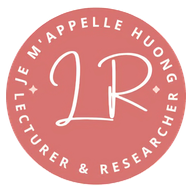
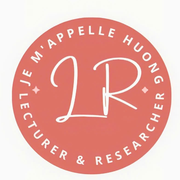
brand: apply user-provided official LR identity

diff --git a/blog.html b/blog.html
@@ -27,7 +27,7 @@ html{scroll-behavior:smooth}
 h1,h2,h3{font-family:var(--serif);font-weight:600;text-wrap:balance;margin:0}
 a{color:var(--accent)}
 .eyebrow{text-transform:uppercase;letter-spacing:.16em;font-size:.7rem;font-weight:700;color:var(--accent)}
-.brandmini{position:fixed;top:10px;left:12px;z-index:6;display:block;width:min(315px,calc(100vw - 190px));height:auto;text-decoration:none;line-height:0}
+.brandmini{position:fixed;top:10px;left:12px;z-index:6;display:block;width:min(230px,calc(100vw - 190px));height:auto;text-decoration:none;line-height:0}
 .brandmini img{display:block;width:100%;height:auto;object-fit:contain}
 @media(max-width:560px){.brandmini{top:9px;left:9px;width:160px}}
 .topctl{position:fixed;top:14px;right:14px;display:flex;gap:8px;z-index:6}
@@ -74,7 +74,7 @@ footer a{color:var(--muted)}
 footer a:hover{color:var(--accent)}
 </style>
 </head><body>
-<a class="brandmini" href="./" aria-label="Je m'appelle Hương · Lecturer &amp; Researcher" title="Je m'appelle Hương · Lecturer &amp; Researcher"><img src="assets/img/lr-je-mappelle-huong.webp" alt="Logo LR — Je m'appelle Hương, Lecturer &amp; Researcher"></a>
+<a class="brandmini" href="./" aria-label="Je m'appelle Hương · Lecturer &amp; Researcher" title="Je m'appelle Hương · Lecturer &amp; Researcher"><img src="assets/img/lr-je-mappelle-huong.png" alt="Logo LR — Je m'appelle Hương, Lecturer &amp; Researcher"></a>
 <div class="topctl"><span class="langtog"><button type="button" data-lang="vi" class="active">VI</button><button type="button" data-lang="en">EN</button></span><button class="toggle" id="tg"><span class="lang-vi">◐ Sáng / Tối</span><span class="lang-en">◐ Light / Dark</span></button></div>
 
 <div class="wrap">

diff --git a/music.html b/music.html
@@ -22,7 +22,7 @@ html{scroll-behavior:smooth}
 h1,h2,h3{font-family:var(--serif);font-weight:600;text-wrap:balance;margin:0}
 a{color:var(--accent)}
 .eyebrow{text-transform:uppercase;letter-spacing:.16em;font-size:.7rem;font-weight:700;color:var(--accent)}
-.brandmini{position:fixed;top:10px;left:12px;z-index:6;display:block;width:min(315px,calc(100vw - 190px));height:auto;text-decoration:none;line-height:0}
+.brandmini{position:fixed;top:10px;left:12px;z-index:6;display:block;width:min(230px,calc(100vw - 190px));height:auto;text-decoration:none;line-height:0}
 .brandmini img{display:block;width:100%;height:auto;object-fit:contain}
 @media(max-width:560px){.brandmini{top:9px;left:9px;width:160px}}
 .topctl{position:fixed;top:14px;right:14px;display:flex;gap:8px;z-index:6}
@@ -76,7 +76,7 @@ footer a{color:var(--muted)}
 footer a:hover{color:var(--accent)}
 </style>
 </head><body>
-<a class="brandmini" href="./" aria-label="Je m'appelle Hương · Lecturer &amp; Researcher" title="Je m'appelle Hương · Lecturer &amp; Researcher"><img src="assets/img/lr-je-mappelle-huong.webp" alt="Logo LR — Je m'appelle Hương, Lecturer &amp; Researcher"></a>
+<a class="brandmini" href="./" aria-label="Je m'appelle Hương · Lecturer &amp; Researcher" title="Je m'appelle Hương · Lecturer &amp; Researcher"><img src="assets/img/lr-je-mappelle-huong.png" alt="Logo LR — Je m'appelle Hương, Lecturer &amp; Researcher"></a>
 <div class="topctl"><span class="langtog"><button type="button" data-lang="vi" class="active">VI</button><button type="button" data-lang="en">EN</button></span><button class="toggle" id="tg"><span class="lang-vi">◐ Sáng / Tối</span><span class="lang-en">◐ Light / Dark</span></button></div>
 
 <div class="wrap">

diff --git a/index.html b/index.html
@@ -199,9 +199,9 @@ body{background:linear-gradient(180deg,var(--sky) 0,var(--paper) 520px) no-repea
 .toggle,.langtog{border-radius:999px}
 .about-fig{border-radius:22px;border-width:4px}
 </style>
-<style>.brandmini{position:fixed;top:10px;left:12px;z-index:6;display:block;width:min(315px,calc(100vw - 190px));height:auto;text-decoration:none;line-height:0}.brandmini img{display:block;width:100%;height:auto;object-fit:contain}@media(max-width:560px){.brandmini{top:9px;left:9px;width:160px}}</style>
+<style>.brandmini{position:fixed;top:10px;left:12px;z-index:6;display:block;width:min(230px,calc(100vw - 190px));height:auto;text-decoration:none;line-height:0}.brandmini img{display:block;width:100%;height:auto;object-fit:contain}@media(max-width:560px){.brandmini{top:9px;left:9px;width:160px}}</style>
 </head><body>
-<a class="brandmini" href="./" aria-label="Je m'appelle Hương · Lecturer &amp; Researcher" title="Je m'appelle Hương · Lecturer &amp; Researcher"><img src="assets/img/lr-je-mappelle-huong.webp" alt="Logo LR — Je m'appelle Hương, Lecturer &amp; Researcher"></a>
+<a class="brandmini" href="./" aria-label="Je m'appelle Hương · Lecturer &amp; Researcher" title="Je m'appelle Hương · Lecturer &amp; Researcher"><img src="assets/img/lr-je-mappelle-huong.png" alt="Logo LR — Je m'appelle Hương, Lecturer &amp; Researcher"></a>
 <div id="hg" aria-hidden="false">
   <img id="hg-img" src="assets/img/huong_chi.webp" alt="Hương AI đồng hành cùng bạn trên trang">
   <div id="hg-bien" title="Bấm để đi tiếp mục kế"><span id="hg-ten"></span><small id="hg-phu"></small></div>

diff --git a/sw.js b/sw.js
@@ -1,5 +1,5 @@
 /* Service worker — Je m'appelle Hương (trang học thuật cá nhân) */
-const CACHE = 'jshuong-v30';
+const CACHE = 'jshuong-v32';
 const CORE = [
   './',
   'index.html',
@@ -23,7 +23,7 @@ const CORE = [
   'assets/img/huong_silver_room.png',
   'assets/img/huong_xedap.webp',
   'assets/img/huong_chi.webp',
-  'assets/img/lr-je-mappelle-huong.webp',
+  'assets/img/lr-je-mappelle-huong.png',
   'assets/img/garden_hub.jpg',
   'assets/img/innovation_banner.jpg',
   'assets/img/creative_library.jpg',
